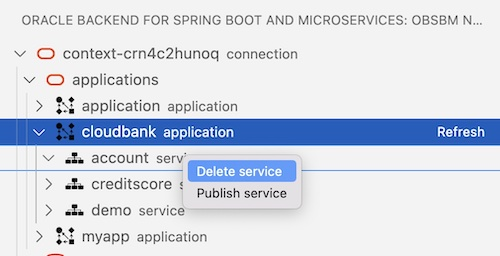
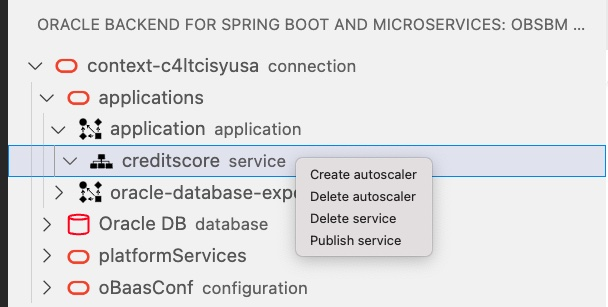
autoscaler

Changed region(s): [[0.0, 0.0, 1.0, 1.0], [0.06, 0.2812, 0.33, 0.3438]]

diff --git a/docs-source/spring/content/platform/vscode-plugin/_index.md b/docs-source/spring/content/platform/vscode-plugin/_index.md
@@ -212,23 +212,21 @@ Choosing this item menu, the parameters will be required are:
 
 2. **Service Name**  
 
-3. **Spring Binding Prefix** (Default: `spring.datasource`)
-
-4. **Do you want to bind a schema? : [True]/[False]** (Default: `True`)
-
-5. **Bind :[True]/[False]** (Default: `True`)
+3. **Bind [jms]** (Default: ``)
 
 6. **Service Port** (Default: `8080`)
 
 7. **Service Profile** (Default: `obaas`)
 
-8. **Image Version** (Default: `0.1`)
+8. **Image Version** (Default: `0.0.1`)
 
 9. **Initial Replicas** (Default: `1`)
 
-10. **Redeploy?: [True]/[False]** (Default: `True`)
+10. **CPU request [default = 500m]** (Default: `500m`)
 
-11. **Add Health probe? : [True]/[False]** (Default: `True`)
+11. **Redeploy?: [True]/[False]** (Default: `True`)
+
+12. **Add Health probe? : [True]/[False]** (Default: `True`)
 
 At the end of the parameters collection, a process, that includes the .exec file upload, building image and deploying, starts. It generates a sequence of messages showing the status. These messages end with "Service deployed successfully!" or "Deploy failed". The size and network constraints determine the amount of time for the process to terminate.
 
@@ -240,13 +238,11 @@ Choosing this item menu, selecting a single application, the parameters will be 
 
 1. A popup dialog box opens to select the local Spring Boot **.jar file**
 
-2. **Do you want to bind a schema? : [True]/[False]** (Default: `True`)
+2. **Service Name**
 
-3. **Service Name**
+3. **Bind [jms]** (Default: ``)
 
-4. **Spring Binding prefix** (Default: `spring.datasource`)
-
-5. **Image Version** (Default: `0.1`)
+5. **Image Version** (Default: `0.0.1`)
 
 6. **Java image** (Default: `ghcr.io/graalvm/jdk:ol7-java17-22.2.0`)
 
@@ -260,7 +256,9 @@ Choosing this item menu, selecting a single application, the parameters will be 
 
 11. **Initial Replicas** (Default: `1`)
 
-12. **Inform the database name for Liquibase**: username for Liquibase.
+12. **CPU request [default = 500m]** (Default: `500m`)
+
+13. **Inform the database name for Liquibase**: username for Liquibase.
 
 At the end of the parameters collection, a process, that includes the .jar upload, building image and deploying, starts. It generates a sequence of messages showing the status. These messages end with "Service deployed successfully!" or "Deploy failed". The size and network constraints determine the amount of time for the process to terminate.
 
@@ -280,12 +278,23 @@ This command removes the application and all the services included. At the end o
 ### Service level commands
 With a right click on a single service you will have the following commands:
 
+* **Create autoscaler**
+* **Delete autoscaler**
 * **Delete service**
 * **Publish service**
 
 as shown here:
 
    ![Service Commands](./images/servicecommands.jpg)
+
+#### Create autoscaler
+Create a Kubernetes autoscaler for the selected pod.
+1. **minReplicas** (Default: `1`)
+1. **maxReplicas** (Default: `1`)
+1. **cpuPercent** (Default: ``)
+
+#### Delete autoscaler
+Delete an existing autoscaler
 
 #### Delete service
 Selecting the service from the tree, under a specific application, you will remove the service deployment, and the active pods will be removed.
